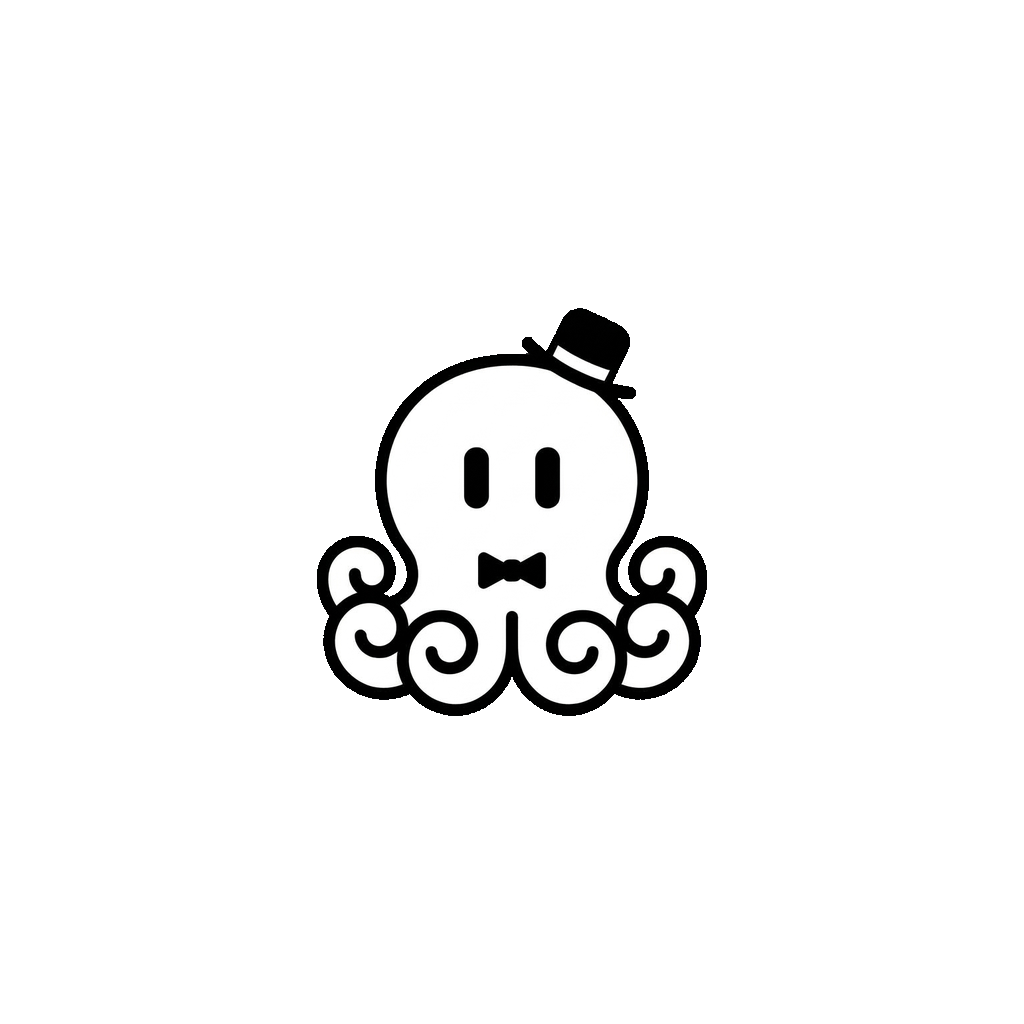
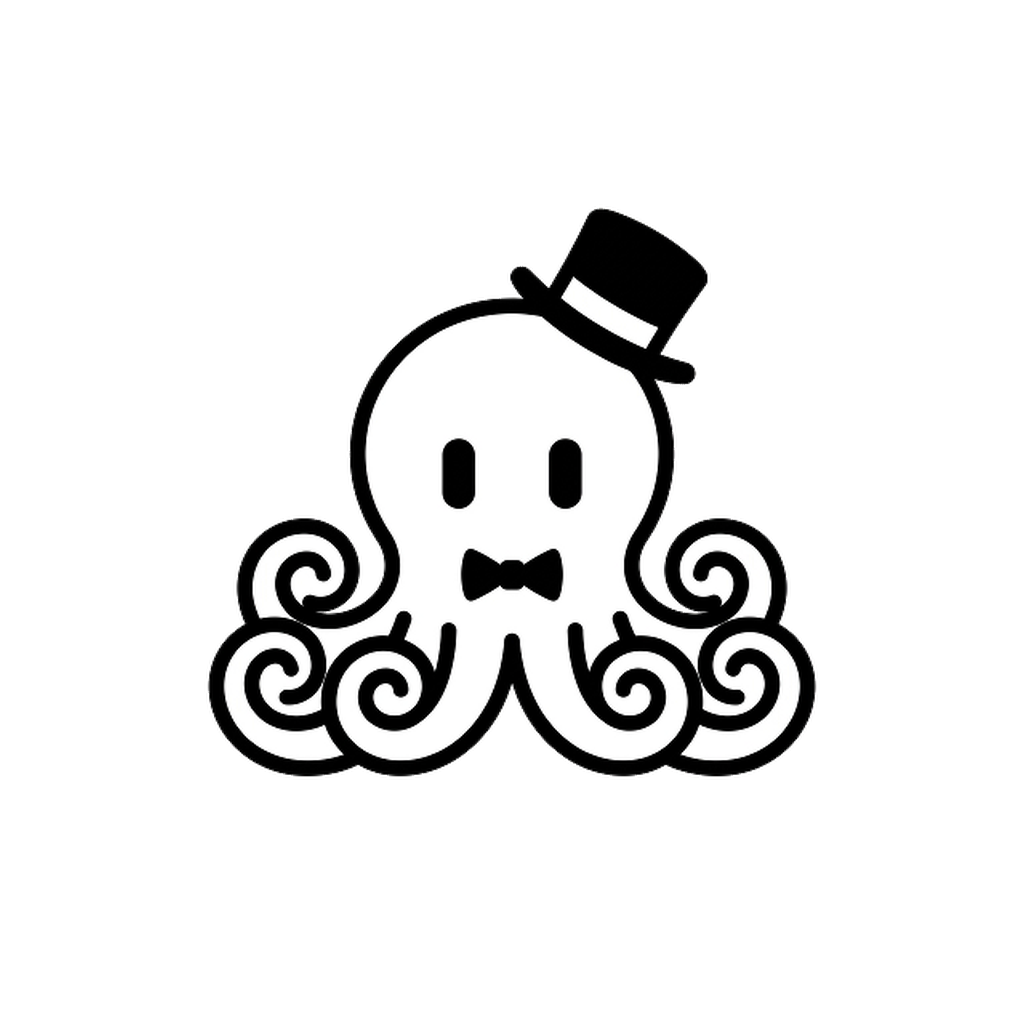
fix(brand): atualiza mascote e icones para 8 tentaculos simetricos

Changed region(s): [[0.1875, 0.1875, 0.8125, 0.7812]]

diff --git a/mobile/src/components/common/VitoMascot.tsx b/mobile/src/components/common/VitoMascot.tsx
@@ -5,13 +5,13 @@ import { useTheme } from '../../context/ThemeContext';
 // Corpo sem olhos: a camada animada é a única fonte dos olhos (evita o bug dos 4 olhos).
 const MASCOT_BODY = require('../../../assets/mascot-body.png');
 
-// Geometria medida no canvas 512x512 do mascot.png original (centros dos olhos).
+// Geometria medida no canvas 512x512 do mascot.png com 8 tentáculos (centros dos olhos).
 const EYE = {
-  width: 29 / 512,
-  height: 71 / 512,
-  centerY: 216.5 / 512,
-  leftCenterX: 214.5 / 512,
-  rightCenterX: 297.5 / 512,
+  width: 20 / 512,
+  height: 42 / 512,
+  centerY: 231.6 / 512,
+  leftCenterX: 222.4 / 512,
+  rightCenterX: 288.6 / 512,
 };
 
 // Movimento estilo "sacada + fixação": deslocamento rápido e suave seguido de pausa.
